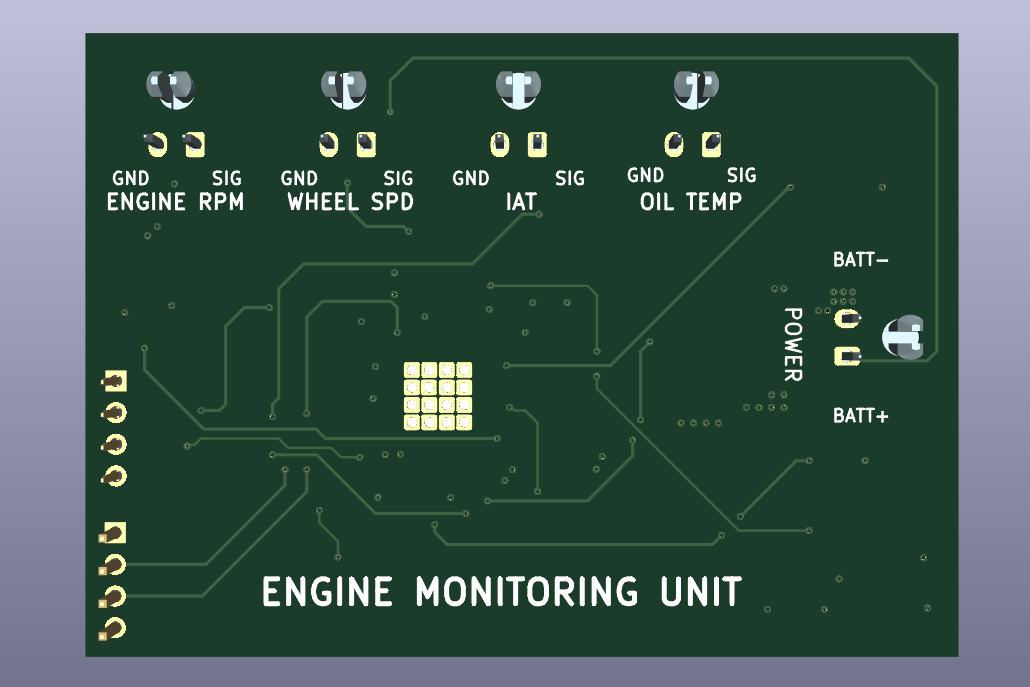
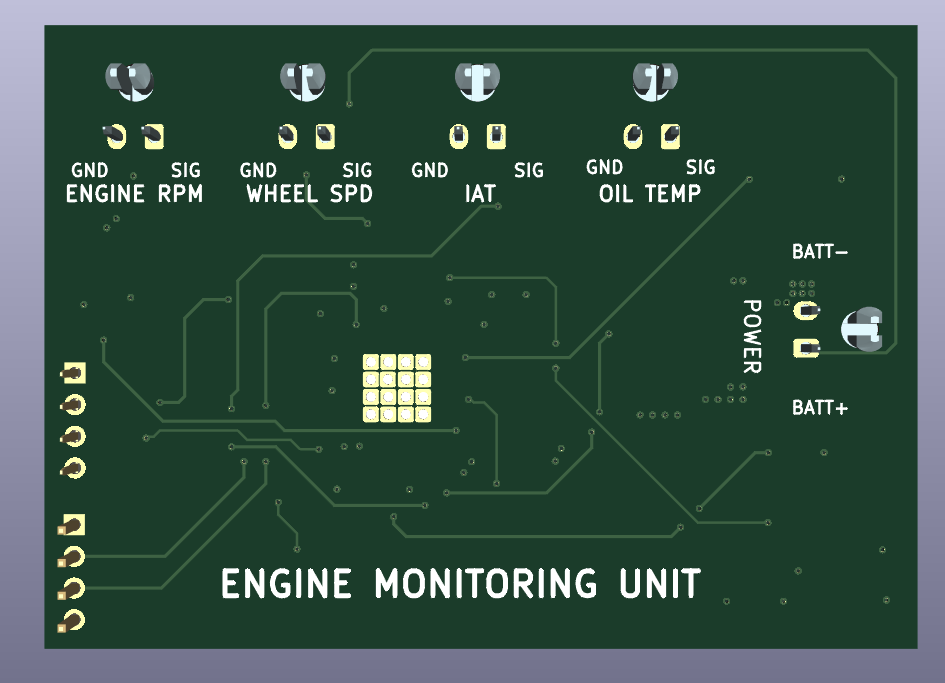
Added Readme

diff --git a/readme.md b/readme.md
@@ -1,0 +1,77 @@
+# Engine Monitoring Unit (EMU) 🏍⚡
+
+[![PCB Design](https://img.shields.io/badge/EDA-KiCad%20v10-blue?logo=kicad&logoColor=white)](https://www.kicad.org/)
+[![MCU](https://img.shields.io/badge/MCU-STM32F411CEU6-003545?logo=stmicroelectronics&logoColor=white)](https://www.st.com/)
+[![Layer Count](https://img.shields.io/badge/PCB-4--Layer-008080)](#pcb-stackup--layout)
+[![Connectors](https://img.shields.io/badge/Harness-Molex%20Micro--Fit%203.0-orange)](#mechanical--connectors)
+[![License](https://img.shields.io/badge/License-MIT-green.svg)](LICENSE)
+
+An open-source, automotive-grade **Engine Monitoring Unit (EMU)** designed to bring real-time engine telemetry and diagnostics to air-cooled single-cylinder motorcycles (such as the Hero Passion Plus) that lack factory instrumentation.
+
+Powered by an **STM32F411CEU6** ARM Cortex-M4 microcontroller, this unit captures vital thermal, electrical, and rotational parameters and displays them on a handlebar-mounted OLED screen—giving riders full visibility over engine health during long highway cruises and touring trips.
+
+---
+
+## 📌 Gallery
+
+| Top 3D Render | Bottom 3D Render |
+| :---: | :---: |
+| ![Top 3D Render](Images/3d_render_top.png) | ![Bottom 3D Render](Images/3d_render_bottom.png) |
+
+---
+
+## 🎯 Motivation & Objectives
+
+Stock commuter motorcycles often lack essential monitoring tools, providing only a basic speedometer and fuel gauge. When pushing small-displacement air-cooled engines on long rides or steep climbs, thermal overload or electrical failure can happen without warning.
+
+This project solves that real-world problem by providing:
+1. **Real-time Engine Health Visibility:** Monitoring oil temperature and intake air temperature (IAT) to prevent overheating.
+2. **Electrical System Telemetry:** Tracking live battery voltage to monitor stator and regulator/rectifier performance.
+3. **Engine Dynamics:** Accurate engine RPM via inductive pulse pickup and wheel speed tracking.
+4. **Automotive EMI Immunity:** Designed specifically for high noise/vibration motorcycle chassis environments.
+5. **Zero Parasitic Battery Drain:** Tied directly to switched ignition (+12V)—completely powered down when the key is OFF.
+
+---
+
+## 🛠 Key Technical Specifications
+
+| Parameter | Specification | Description |
+| :--- | :--- | :--- |
+| **Microcontroller** | STM32F411CEU6 | 100 MHz ARM Cortex-M4, 512KB Flash, 128KB SRAM |
+| **Operating Voltage** | 12V DC nominal (Switched) | Powered directly from motorcycle ignition bus |
+| **On-board Power** | LMR16006 Buck Converter | 12V → 3.3V Step-down (60V Max $V_{IN}$) |
+| **Current Draw** | < 0.6A Operating | 0A Off-state (Zero parasitic load) |
+| **PCB Stackup** | 4-Layer | Top (Sig/Pwr) - GND - GND - Bottom (Sig) |
+| **Connectors** | Molex Micro-Fit 3.0 | Positive-locking, high-vibration automotive rating |
+| **Display Interface** | 0.96" I2C OLED | 4-pin header (3.3V, SDA, SCL, GND) |
+| **Debug Interface** | SWD | 4-pin header (3.3V, SWDIO, SWCLK, GND) |
+
+---
+
+## 📐 System Architecture & Schematic Overview
+
+![Full Schematic](Images/schematic.png)
+
+### Circuit Block Summary:
+* **Power Supply:** Uses a high-efficiency **LMR16006** synchronous buck regulator stepping down battery voltage to $+3.3\text{V}$ for the MCU and OLED display.
+* **Microcontroller Core:** Minimalist STM32F411 layout with external $8\text{ MHz}$ HSE crystal ($Y_1$) and $32.768\text{ kHz}$ LSE crystal ($Y_2$), full decoupling capacitor network ($C_2 - C_7$), and pull-up/down logic for BOOT0/NRST.
+* **Inductive RPM Conditioning:** Discrete NPN transistor ($Q_1$) amplifier stage paired with high-speed clamping diodes ($D_4 - D_7$) to cleanly condition high-voltage spark-plug coil inductive pulses into a 3.3V digital square wave.
+* **Analog Sensor Inputs:** Resistive voltage dividers and $100\text{ nF}$ filtering capacitors for Oil Temp ($J_3$), Intake Air Temp ($J_4$), and Battery Voltage sensing ($J_2$).
+* **Wheel Speed Conditioning:** Digital pulse input circuit with pull-up and low-pass filtering for hall-effect or reed switch wheel sensors ($J_5$).
+
+---
+
+## 📑 PCB Stackup & Layer Breakdown
+
+To withstand the severe Electromagnetic Interference (EMI) generated by motorcycle ignition coils and spark plugs, the PCB utilizes a dedicated **4-layer stackup** with dual continuous internal ground planes.
+
+```text
+┌─────────────────────────────────────────────────────────┐
+│ Layer 1: Top Layer (FCU)    -> Signals + 3.3V Power     │
+├─────────────────────────────────────────────────────────┤
+│ Layer 2: Inner 1 (In1)      -> Solid Ground Plane (GND) │
+├─────────────────────────────────────────────────────────┤
+│ Layer 3: Inner 2 (In2)      -> Solid Ground Plane (GND) │
+├─────────────────────────────────────────────────────────┤
+│ Layer 4: Bottom Layer (BCU) -> Signal Routing           │
+└─────────────────────────────────────────────────────────┘
